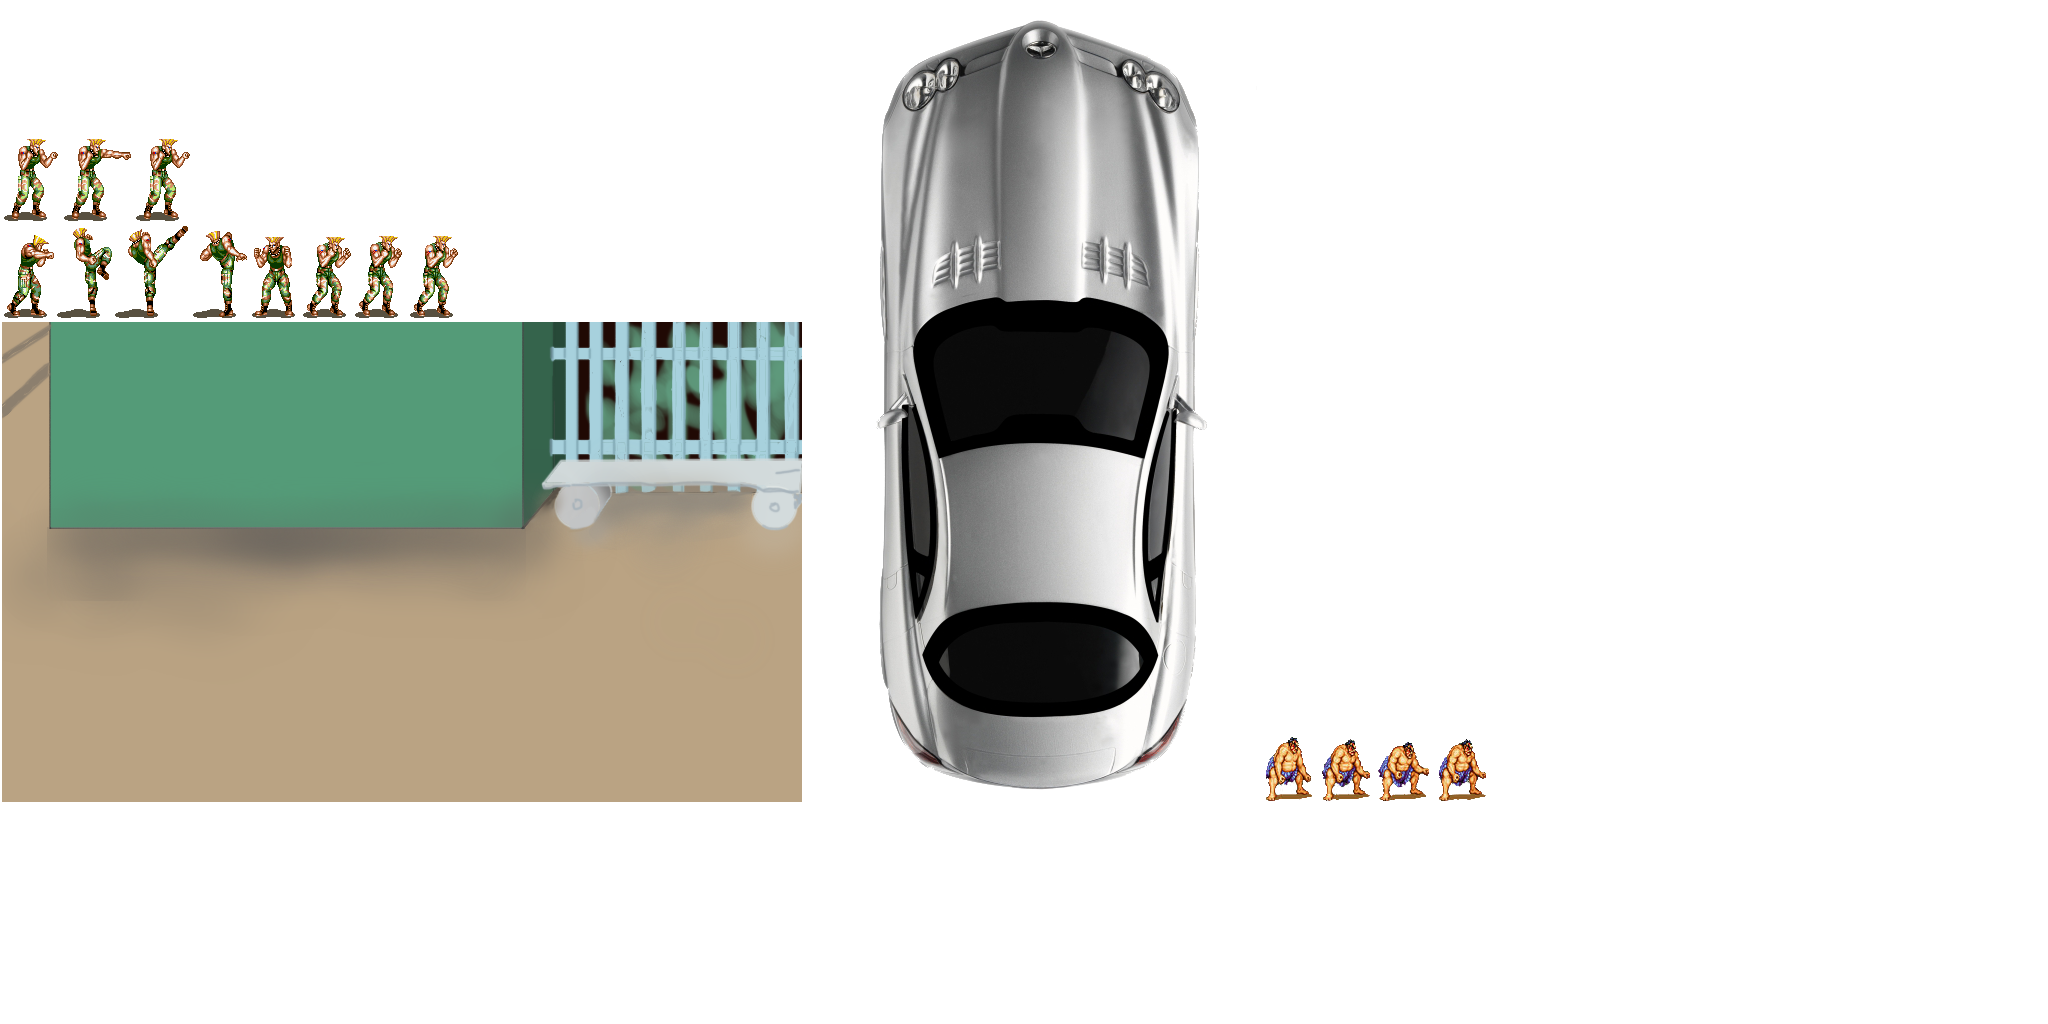
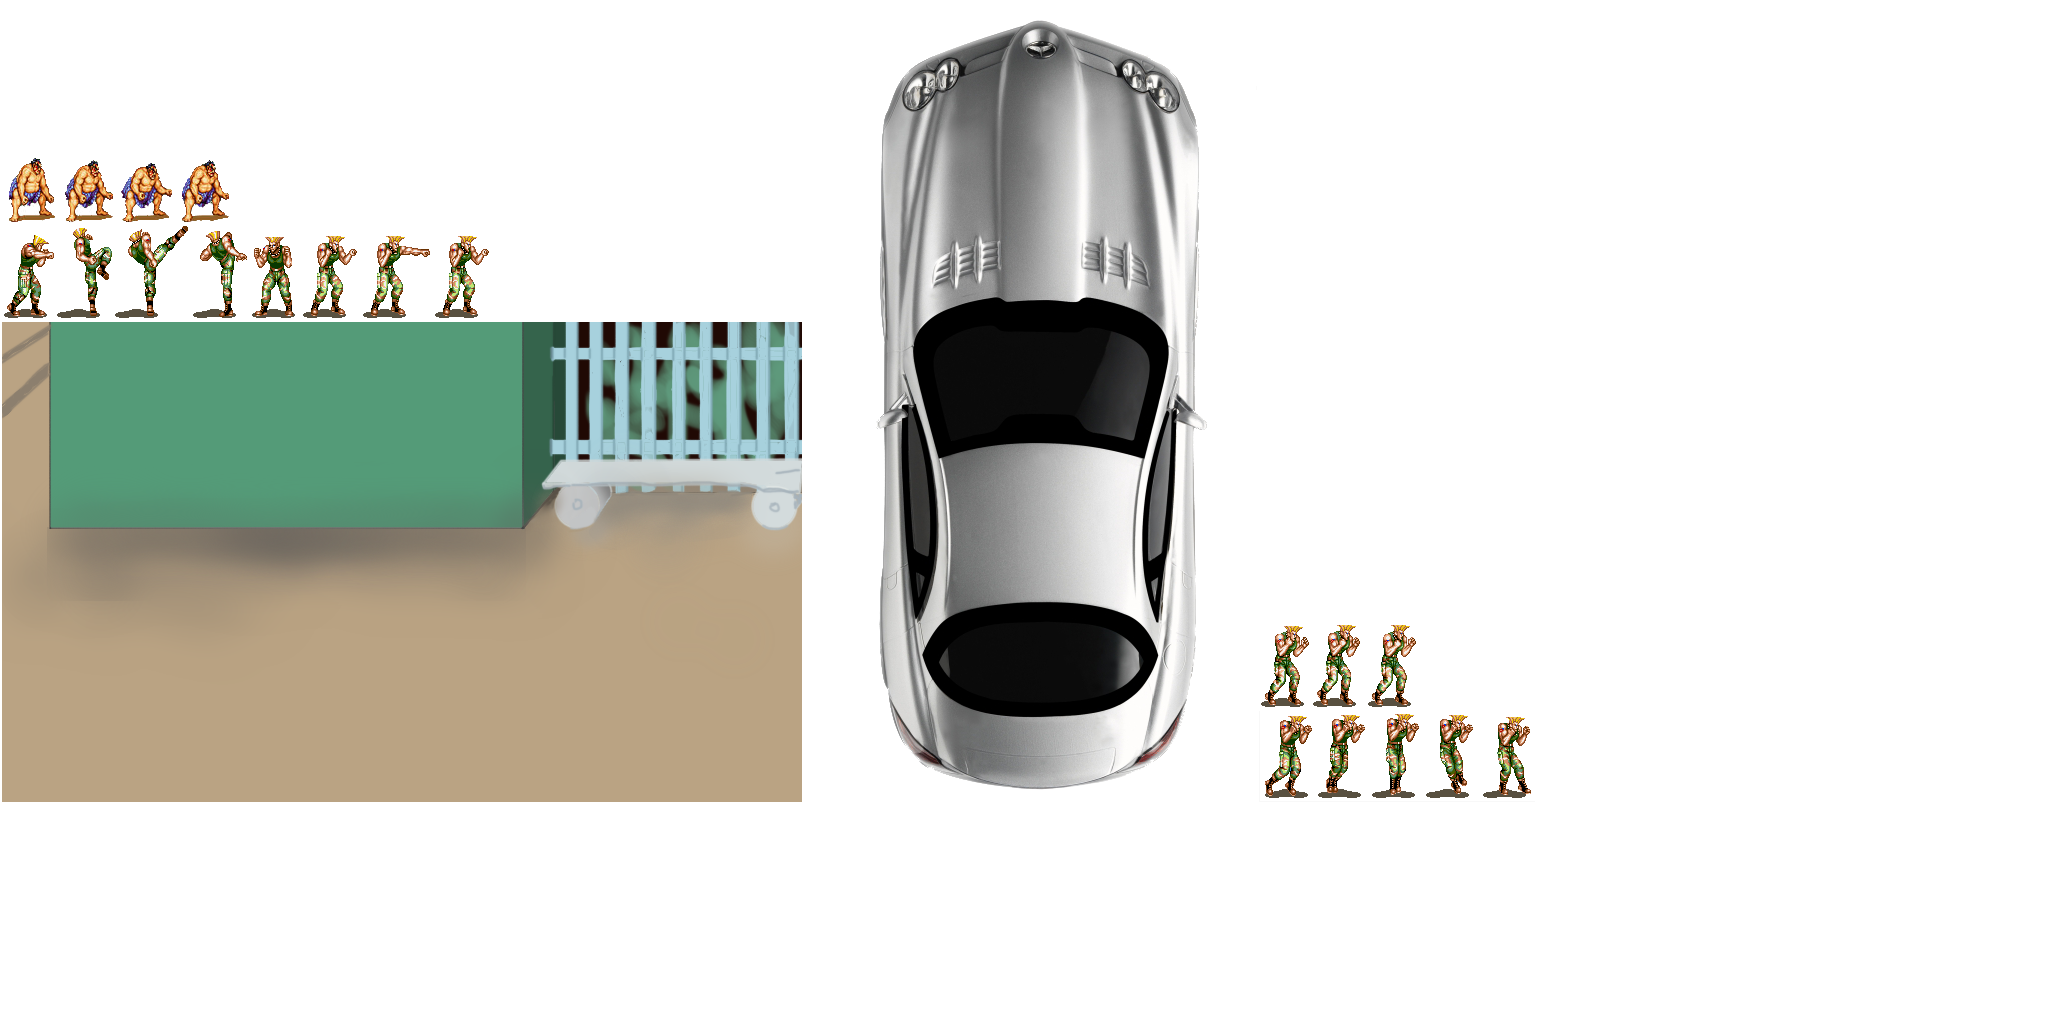
animation was refactored

Changed region(s): [[0.5938, 0.5938, 0.75, 0.7812], [0.0, 0.125, 0.125, 0.2188], [0.1562, 0.2188, 0.25, 0.3125]]

diff --git a/core/src/ru/fivestarter/dichlofos/jrpg/model/Guile.java b/core/src/ru/fivestarter/dichlofos/jrpg/model/Guile.java
@@ -13,10 +13,12 @@ public class Guile implements Character {
     public static final float IDLE_DURATION = 0.25f;
     public static final float PUNCH_DURATION = 0.15f;
     public static final float HIGH_KICK_DURATION = 0.35f;
+    public static final float WALK_DURATION = 0.25f;
     private static final float UNIT_SCALE = 3.5f;
     private final Animation<TextureRegion> idleAnimation;
     private final Animation<TextureRegion> punchAnimation;
     private final Animation<TextureRegion> highKickAnimation;
+    private final Animation<TextureRegion> walkAnimation;
 
     private final Sprite sprite;
     private float idleTime = 0f;
@@ -28,9 +30,10 @@ public class Guile implements Character {
     private GuileController guileController;
 
     public Guile(TextureAtlas textureAtlas, int x, int y) {
-        this.idleAnimation = createWalkAnimation(textureAtlas);
+        this.idleAnimation = createIdleAnimation(textureAtlas);
         this.punchAnimation = createPunchAnimation(textureAtlas);
         this.highKickAnimation = createHighKickAnimation(textureAtlas);
+        this.walkAnimation = createWalkAnimation(textureAtlas);
         this.sprite = new Sprite();
         this.sprite.setPosition(x, y);
         this.guileController = new GuileController(this);
@@ -68,6 +71,10 @@ public class Guile implements Character {
         }
     }
 
+    @Override
+    public void move() {
+    }
+
     private boolean isIdle() {
         return !isPunch() && !isHighKick();
     }
@@ -101,7 +108,7 @@ public class Guile implements Character {
         sprite.setSize(keyFrame.getRegionWidth() * UNIT_SCALE, keyFrame.getRegionHeight() * UNIT_SCALE);
     }
 
-    private Animation<TextureRegion> createWalkAnimation(TextureAtlas textureAtlas) {
+    private Animation<TextureRegion> createIdleAnimation(TextureAtlas textureAtlas) {
         TextureAtlas.AtlasRegion idleRegion = textureAtlas.findRegion("guileIdle");
         TextureRegion[] walkFrames = Arrays.stream(idleRegion.split(idleRegion.getRegionWidth() / 3, idleRegion.getRegionHeight()))
                 .flatMap(Stream::of)
@@ -128,5 +135,13 @@ public class Guile implements Character {
         punchFrames[4] = new TextureRegion(highKickRegion, 248, 0, highKickRegion.getRegionWidth() - 248, highKickRegion.getRegionHeight());
 
         return new Animation<>(PUNCH_DURATION, new Array<>(punchFrames), Animation.PlayMode.LOOP_PINGPONG);
+    }
+
+    private Animation<TextureRegion> createWalkAnimation(TextureAtlas textureAtlas) {
+        TextureAtlas.AtlasRegion walkRegion = textureAtlas.findRegion("guileWalk");
+        TextureRegion[] walkFrames = Arrays.stream(walkRegion.split(walkRegion.getRegionWidth() / 5, walkRegion.getRegionHeight()))
+                .flatMap(Stream::of)
+                .toArray(TextureRegion[]::new);
+        return new Animation<>(WALK_DURATION, new Array<>(walkFrames), Animation.PlayMode.LOOP);
     }
 }

diff --git a/core/src/ru/fivestarter/dichlofos/jrpg/animation/HighKickAnimation.java b/core/src/ru/fivestarter/dichlofos/jrpg/animation/HighKickAnimation.java
@@ -1,0 +1,53 @@
+package ru.fivestarter.dichlofos.jrpg.animation;
+
+import com.badlogic.gdx.Gdx;
+import com.badlogic.gdx.graphics.g2d.Animation;
+import com.badlogic.gdx.graphics.g2d.Sprite;
+import com.badlogic.gdx.graphics.g2d.TextureAtlas;
+import com.badlogic.gdx.graphics.g2d.TextureRegion;
+import com.badlogic.gdx.utils.Array;
+import ru.fivestarter.dichlofos.jrpg.model.Character;
+
+public class HighKickAnimation extends CharacterAnimation {
+    private static final float FRAME_DURATION = 0.15f;
+
+    private final Animation<TextureRegion> animation;
+
+    private float highKickDuration = 0.7f;
+
+    protected HighKickAnimation(Character character, TextureAtlas textureAtlas, float unitScale) {
+        super(character, unitScale);
+        this.animation = createHighKickAnimation(textureAtlas);
+    }
+
+    @Override
+    public void animate(Sprite sprite) {
+        highKickDuration -= Gdx.graphics.getDeltaTime();
+        animationTime += Gdx.graphics.getDeltaTime();
+        TextureRegion keyFrame = animation.getKeyFrame(animationTime);
+        sprite.setRegion(keyFrame);
+        sprite.setSize(keyFrame.getRegionWidth() * unitScale, keyFrame.getRegionHeight() * unitScale);
+    }
+
+    @Override
+    protected boolean isFinish() {
+        return highKickDuration <= 0;
+    }
+
+    @Override
+    protected void reset() {
+        highKickDuration = 0.7f;
+    }
+
+    private Animation<TextureRegion> createHighKickAnimation(TextureAtlas textureAtlas) {
+        TextureAtlas.AtlasRegion highKickRegion = textureAtlas.findRegion("guileHighKick");
+        TextureRegion[] punchFrames = new TextureRegion[5];
+        punchFrames[0] = new TextureRegion(highKickRegion, 0, 0, 54, highKickRegion.getRegionHeight());
+        punchFrames[1] = new TextureRegion(highKickRegion, 53, 0, 57, highKickRegion.getRegionHeight());
+        punchFrames[2] = new TextureRegion(highKickRegion, 111, 0, 75, highKickRegion.getRegionHeight());
+        punchFrames[3] = new TextureRegion(highKickRegion, 189, 0, 56, highKickRegion.getRegionHeight());
+        punchFrames[4] = new TextureRegion(highKickRegion, 248, 0, highKickRegion.getRegionWidth() - 248, highKickRegion.getRegionHeight());
+
+        return new Animation<>(FRAME_DURATION, new Array<>(punchFrames), Animation.PlayMode.LOOP_PINGPONG);
+    }
+}

diff --git a/core/src/ru/fivestarter/dichlofos/jrpg/animation/PunchAnimation.java b/core/src/ru/fivestarter/dichlofos/jrpg/animation/PunchAnimation.java
@@ -1,0 +1,51 @@
+package ru.fivestarter.dichlofos.jrpg.animation;
+
+import com.badlogic.gdx.Gdx;
+import com.badlogic.gdx.graphics.g2d.Animation;
+import com.badlogic.gdx.graphics.g2d.Sprite;
+import com.badlogic.gdx.graphics.g2d.TextureAtlas;
+import com.badlogic.gdx.graphics.g2d.TextureRegion;
+import com.badlogic.gdx.utils.Array;
+import ru.fivestarter.dichlofos.jrpg.model.Character;
+
+public class PunchAnimation extends CharacterAnimation {
+    private static final float FRAME_DURATION = 0.15f;
+
+    private final Animation<TextureRegion> animation;
+
+    private float punchDuration = FRAME_DURATION * 2;
+
+    protected PunchAnimation(Character character, TextureAtlas textureAtlas, float unitScale) {
+        super(character, unitScale);
+        this.animation = createPunchAnimation(textureAtlas);
+    }
+
+    @Override
+    public void animate(Sprite sprite) {
+        punchDuration -= Gdx.graphics.getDeltaTime();
+        animationTime += Gdx.graphics.getDeltaTime();
+        TextureRegion keyFrame = animation.getKeyFrame(animationTime);
+        sprite.setRegion(keyFrame);
+        sprite.setSize(keyFrame.getRegionWidth() * unitScale, keyFrame.getRegionHeight() * unitScale);
+    }
+
+    @Override
+    protected boolean isFinish() {
+        return punchDuration <= 0;
+    }
+
+    @Override
+    protected void reset() {
+        punchDuration = FRAME_DURATION * 2;
+    }
+
+    private Animation<TextureRegion> createPunchAnimation(TextureAtlas textureAtlas) {
+        TextureAtlas.AtlasRegion punchRegion = textureAtlas.findRegion("guilePunch");
+        TextureRegion[] punchFrames = new TextureRegion[3];
+        punchFrames[0] = new TextureRegion(punchRegion, 0, 0, 56, punchRegion.getRegionHeight());
+        punchFrames[1] = new TextureRegion(punchRegion, 60, 0, 70, punchRegion.getRegionHeight());
+        punchFrames[2] = new TextureRegion(punchRegion, 132, 0, punchRegion.getRegionWidth() - 132, punchRegion.getRegionHeight());
+
+        return new Animation<>(FRAME_DURATION, new Array<>(punchFrames), Animation.PlayMode.LOOP_PINGPONG);
+    }
+}

diff --git a/core/src/ru/fivestarter/dichlofos/jrpg/animation/IdleAnimation.java b/core/src/ru/fivestarter/dichlofos/jrpg/animation/IdleAnimation.java
@@ -1,0 +1,48 @@
+package ru.fivestarter.dichlofos.jrpg.animation;
+
+import ru.fivestarter.dichlofos.jrpg.model.Character;
+
+import com.badlogic.gdx.Gdx;
+import com.badlogic.gdx.graphics.g2d.Animation;
+import com.badlogic.gdx.graphics.g2d.Sprite;
+import com.badlogic.gdx.graphics.g2d.TextureAtlas;
+import com.badlogic.gdx.graphics.g2d.TextureRegion;
+import com.badlogic.gdx.utils.Array;
+
+import java.util.Arrays;
+import java.util.stream.Stream;
+
+public class IdleAnimation extends CharacterAnimation {
+    public static final float IDLE_DURATION = 0.25f;
+    private final Animation<TextureRegion> animation;
+
+    protected IdleAnimation(Character character, TextureAtlas textureAtlas, float unitScale) {
+        super(character, unitScale);
+        this.animation = createIdleAnimation(textureAtlas);
+    }
+
+    private Animation<TextureRegion> createIdleAnimation(TextureAtlas textureAtlas) {
+        TextureAtlas.AtlasRegion idleRegion = textureAtlas.findRegion("guileIdle");
+        TextureRegion[] walkFrames = Arrays.stream(idleRegion.split(idleRegion.getRegionWidth() / 3, idleRegion.getRegionHeight()))
+                .flatMap(Stream::of)
+                .toArray(TextureRegion[]::new);
+        return new com.badlogic.gdx.graphics.g2d.Animation<>(IDLE_DURATION, new Array<>(walkFrames), com.badlogic.gdx.graphics.g2d.Animation.PlayMode.LOOP_PINGPONG);
+    }
+
+    @Override
+    public void animate(Sprite sprite) {
+        animationTime += Gdx.graphics.getDeltaTime();
+        TextureRegion keyFrame = animation.getKeyFrame(animationTime);
+        sprite.setRegion(keyFrame);
+        sprite.setSize(keyFrame.getRegionWidth() * unitScale, keyFrame.getRegionHeight() * unitScale);
+    }
+
+    @Override
+    protected boolean isFinish() {
+        return true;
+    }
+
+    @Override
+    protected void reset() {
+    }
+}

diff --git a/core/src/ru/fivestarter/dichlofos/jrpg/animation/CharacterAnimation.java b/core/src/ru/fivestarter/dichlofos/jrpg/animation/CharacterAnimation.java
@@ -1,0 +1,38 @@
+package ru.fivestarter.dichlofos.jrpg.animation;
+
+import com.badlogic.gdx.graphics.g2d.Animation;
+import com.badlogic.gdx.graphics.g2d.Sprite;
+import com.badlogic.gdx.graphics.g2d.TextureRegion;
+import ru.fivestarter.dichlofos.jrpg.model.Character;
+
+public abstract class CharacterAnimation {
+    protected Character character;
+    protected float animationTime = 0f;
+    protected final float unitScale;
+
+    protected CharacterAnimation(Character character, float unitScale) {
+        this.character = character;
+        this.unitScale = unitScale;
+    }
+
+    abstract public void animate(Sprite sprite);
+    abstract protected boolean isFinish();
+    abstract protected void reset();
+
+    public void idle() {
+
+    }
+
+    public void punch() {
+        resetState();
+        character.punch();
+    }
+
+    public void walk() {
+
+    }
+
+    private void resetState() {
+        reset();
+    }
+}

diff --git a/core/src/ru/fivestarter/dichlofos/jrpg/control/GuileController.java b/core/src/ru/fivestarter/dichlofos/jrpg/control/GuileController.java
@@ -20,5 +20,8 @@ public class GuileController {
         if (Gdx.input.isKeyPressed(Input.Keys.E)) {
             character.highKick();
         }
+        if (Gdx.input.isKeyPressed(Input.Keys.R)) {
+            character.move();
+        }
     }
 }

diff --git a/core/src/ru/fivestarter/dichlofos/jrpg/model/Character.java b/core/src/ru/fivestarter/dichlofos/jrpg/model/Character.java
@@ -3,4 +3,5 @@ package ru.fivestarter.dichlofos.jrpg.model;
 public interface Character {
     void punch();
     void highKick();
+    void move();
 }
